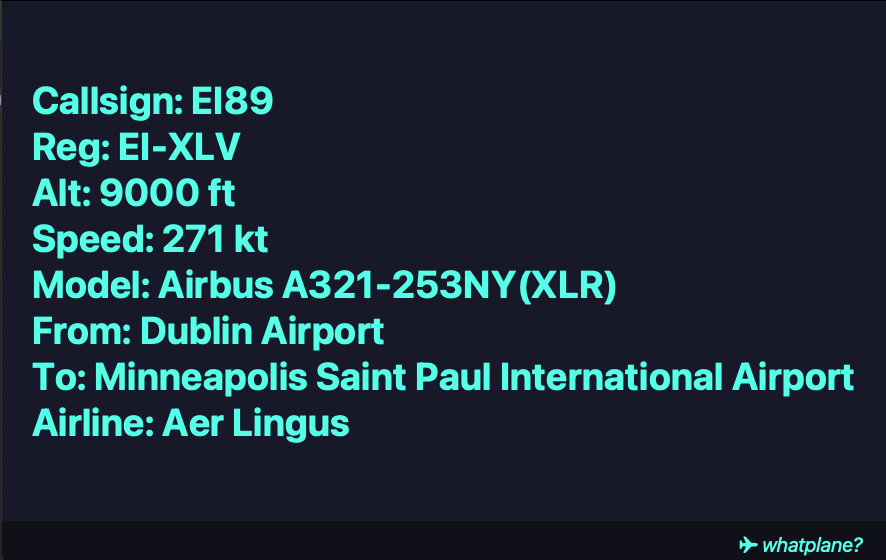
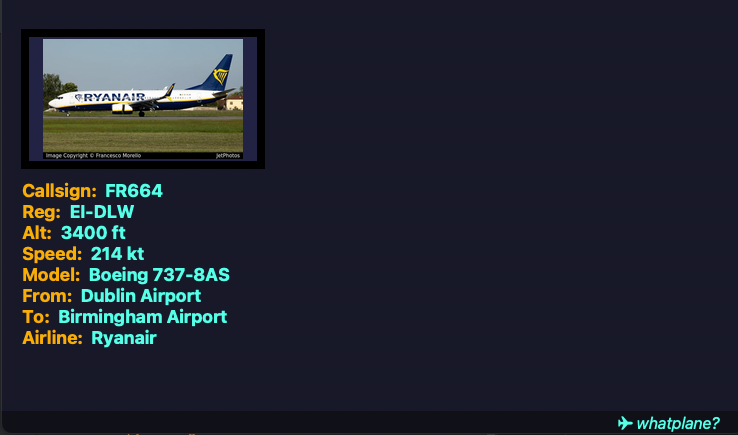
Refactor UI: plane image now in text area, remove debug prints

diff --git a/app.py b/app.py
@@ -5,6 +5,8 @@ from tkinter import messagebox
 from dotenv import load_dotenv
 import time
 import threading
+from PIL import Image, ImageTk
+import io
 
 # Load environment variables from .env
 load_dotenv()
@@ -43,7 +45,6 @@ def get_flights():
                 })
         return flights[0] if flights else None
     except Exception as e:
-        print(f"Error fetching flights: {e}")
         return None
 
 def get_flight_details(flight_id):
@@ -53,7 +54,6 @@ def get_flight_details(flight_id):
         response.raise_for_status()
         return response.json()
     except Exception as e:
-        print(f"Error fetching flight details: {e}")
         return None
 
 def format_flight_info(flight, details):
@@ -64,31 +64,29 @@ def format_flight_info(flight, details):
     reg = flight.get("reg", "N/A")
     alt = flight.get("alt_baro", "N/A")
     spd = flight.get("spd", "N/A")
-    info.append(f"Callsign: {callsign}")
-    info.append(f"Reg: {reg}")
-    info.append(f"Alt: {alt} ft")
-    info.append(f"Speed: {spd} kt")
+    info.append(f"[TITLE]Callsign[/TITLE] {callsign}")
+    info.append(f"[TITLE]Reg[/TITLE] {reg}")
+    info.append(f"[TITLE]Alt[/TITLE] {alt} ft")
+    info.append(f"[TITLE]Speed[/TITLE] {spd} kt")
     if details:
         try:
             d = details.get("aircraft", {})
             model = d.get("model", {}).get("text", "")
-            info.append(f"Model: {model}")
+            info.append(f"[TITLE]Model[/TITLE] {model}")
             origin = details.get("airport", {}).get("origin", {}).get("name", "")
             dest = details.get("airport", {}).get("destination", {}).get("name", "")
-            info.append(f"From: {origin}")
-            info.append(f"To: {dest}")
+            info.append(f"[TITLE]From[/TITLE] {origin}")
+            info.append(f"[TITLE]To[/TITLE] {dest}")
             airline = details.get("airline", {}).get("name", "")
             if airline:
-                info.append(f"Airline: {airline}")
+                info.append(f"[TITLE]Airline[/TITLE] {airline}")
         except Exception:
             pass
     return "\n".join(info)
 
 class FlightApp(tk.Tk):
     def __init__(self):
-        print("Initializing FlightApp UI...")
         super().__init__()
-        print("Tk root initialized.")
         self.title("whatplane?")
         self.attributes("-fullscreen", True)
         # self.geometry("800x480")  # 7" Pi touchscreen (now fullscreen)
@@ -98,7 +96,7 @@ class FlightApp(tk.Tk):
         self.shadow = tk.Label(
             self,
             text="Loading...",
-            font=("Segoe UI", 38, "bold"),
+            font=("Segoe UI", 34, "bold"),
             fg="#0a0a0a",
             bg="#181828",
             justify="left",
@@ -113,7 +111,7 @@ class FlightApp(tk.Tk):
         self.glow = tk.Label(
             self,
             text="Loading...",
-            font=("Segoe UI", 38, "bold"),
+            font=("Segoe UI", 34, "bold"),
             fg="#00ffe7",
             bg="#181828",
             justify="left",
@@ -124,27 +122,27 @@ class FlightApp(tk.Tk):
             highlightthickness=0
         )
         self.glow.place(relx=0.5, rely=0.5, anchor="center", x=2, y=2)
-        # Main label (on top)
-        self.label = tk.Label(
-            self,
-            text="Loading...",
-            font=("Segoe UI", 38, "bold"),
-            fg="#00ffe7",
-            bg="#181828",
-            justify="left",
-            anchor="center",
-            padx=40,
-            pady=40,
-            borderwidth=0,
-            highlightthickness=0
-        )
-        self.label.pack(expand=True, fill="both", padx=30, pady=30)
-        self.label.lift()
+        # --- Main content frame for side-by-side layout ---
+        self.content_frame = tk.Frame(self, bg="#181828")
+        self.content_frame.pack(expand=True, fill="both", padx=20, pady=20)
+        
+        # Configure grid layout
+        self.content_frame.columnconfigure(0, weight=3)  # Text takes 3/4 space
+        self.content_frame.rowconfigure(0, weight=1)     # Single row takes all vertical space
+        
+        # Text frame on left
+        self.text_frame = tk.Frame(self.content_frame, bg="#181828")
+        self.text_frame.grid(row=0, column=0, sticky="nsew", padx=(0, 20))
+        
+        # Image label inside text_frame, initially hidden
+        self.image_label = tk.Label(self.text_frame, bg="#222244", fg="white", text="Image Area\n(Loading...)", font=("Arial", 10), wraplength=180)
+        self.image_label.pack_forget()
+        
         # Add a subtle bottom bar for branding (neon accent)
         self.footer = tk.Label(
             self,
             text="✈ whatplane?",
-            font=("Segoe UI", 20, "italic"),
+            font=("Segoe UI", 16, "italic"),
             fg="#00ffe7",
             bg="#101018",
             anchor="e",
@@ -156,20 +154,104 @@ class FlightApp(tk.Tk):
         self.footer.pack(side="bottom", fill="x")
         self.protocol("WM_DELETE_WINDOW", self.on_close)
         self.running = True
-        print("Scheduling update thread...")
         self.after(100, lambda: threading.Thread(target=self.update_loop, daemon=True).start())
 
     def update_loop(self):
-        print("Entered update_loop.")
         while self.running:
             flight = get_flights()
             details = get_flight_details(flight["id"] if flight else None)
             info = format_flight_info(flight, details)
-            print(info)
             # Update all labels for neon+shadow effect
-            self.after(0, lambda: self.shadow.config(text=info))
-            self.after(0, lambda: self.glow.config(text=info))
-            self.after(0, lambda: self.label.config(text=info))
+            # Custom: parse info and colorize titles
+            def colorize(text, title_color="#ffae00", detail_color="#00ffe7"):
+                lines = text.split("\n")
+                colored = []
+                for line in lines:
+                    if line.startswith("[TITLE]"):
+                        # Find end of title marker
+                        end = line.find("[/TITLE]")
+                        if end != -1:
+                            title = line[7:end]
+                            detail = line[end+8:]
+                            colored.append((title, detail))
+                        else:
+                            colored.append((line, ""))
+                    else:
+                        colored.append(("", line))
+                return colored
+            colored_info = colorize(info)
+            # Update labels: join with newlines, color titles differently
+            def make_colored_text(colored_info, title_color="#ffae00", detail_color="#00ffe7"):
+                # Use tk.Text for color, but fallback to simple text for tk.Label
+                # Here, join as: title (color) + detail (default)
+                return "\n".join([
+                    f"{title}: {detail}" if title else detail
+                    for title, detail in colored_info
+                ])
+            # For shadow and glow, keep original color
+            self.after(0, lambda: self.shadow.config(text=make_colored_text(colored_info, "#0a0a0a", "#0a0a0a")))
+            self.after(0, lambda: self.glow.config(text=make_colored_text(colored_info, "#00ffe7", "#00ffe7")))
+            # For main label, colorize titles
+            # To color titles, use tk.Text widget instead of tk.Label
+            # But for now, set all text, then try to colorize titles if possible
+            def update_main_label():
+                try:
+                    # --- Plane Image ---
+                    if details:
+                        img_url = None
+                        try:
+                            img_url = details.get("aircraft", {}).get("images", {}).get("large", [{}])[0].get("src")
+                        except Exception:
+                            img_url = None
+                        self.image_label.config(bd=8, relief="solid", bg="#222244")
+                        if img_url:
+                            try:
+                                response = requests.get(img_url, timeout=10)
+                                img_data = response.content
+                                pil_img = Image.open(io.BytesIO(img_data))
+                                pil_img = pil_img.resize((200, 120), Image.LANCZOS)
+                                tk_img = ImageTk.PhotoImage(pil_img)
+                                self.image_label.configure(image=tk_img, text="")
+                                self.image_label.image = tk_img
+                            except Exception as e:
+                                self.image_label.configure(image=None, text="Image error", fg="red")
+                                self.image_label.image = None
+                        else:
+                            self.image_label.configure(image=None, text="No image", fg="red")
+                            self.image_label.image = None
+                        # Always (re)pack the image_label to ensure visibility
+                        self.image_label.pack_forget()
+                        self.image_label.pack(side="top", pady=(10, 10), anchor="nw")
+                        self.image_label.lift()
+                    else:
+                        self.image_label.configure(image=None, text="No image", fg="red")
+                        self.image_label.image = None
+                        # Always (re)pack the image_label to ensure visibility
+                        self.image_label.pack_forget()
+                        self.image_label.pack(side="top", pady=(10, 10), anchor="nw")
+                        self.image_label.lift()
+                    # Replace label with tk.Text for coloring, in text_frame
+                    for widget in self.text_frame.winfo_children():
+                        if widget != self.image_label:
+                            widget.destroy()
+                    text_widget = tk.Text(self.text_frame, font=("Segoe UI", 18, "bold"), fg="#00ffe7", bg="#181828", height=10, borderwidth=0, highlightthickness=0, wrap="word")
+                    text_widget.tag_configure("title", foreground="#ffae00")
+                    text_widget.tag_configure("detail", foreground="#00ffe7")
+                    for title, detail in colored_info:
+                        if title:
+                            text_widget.insert("end", f"{title}: ", "title")
+                            text_widget.insert("end", f"{detail}\n", "detail")
+                        else:
+                            text_widget.insert("end", f"{detail}\n", "detail")
+                    text_widget.config(state="disabled")
+                    text_widget.pack(expand=True, fill="both")
+                except Exception as e:
+                    for widget in self.text_frame.winfo_children():
+                        if widget != self.image_label:
+                            widget.destroy()
+                    fallback = tk.Label(self.text_frame, text=make_colored_text(colored_info), font=("Segoe UI", 34, "bold"), fg="#00ffe7", bg="#181828", justify="left")
+                    fallback.pack(expand=True, fill="both")
+            self.after(0, update_main_label)
             for _ in range(QUERY_DELAY):
                 if not self.running:
                     break
@@ -180,8 +262,5 @@ class FlightApp(tk.Tk):
         self.destroy()
 
 if __name__ == "__main__":
-    print("Starting FlightApp...")
     app = FlightApp()
-    print("FlightApp initialized, entering mainloop.")
     app.mainloop()
-    print("Exited mainloop.")
